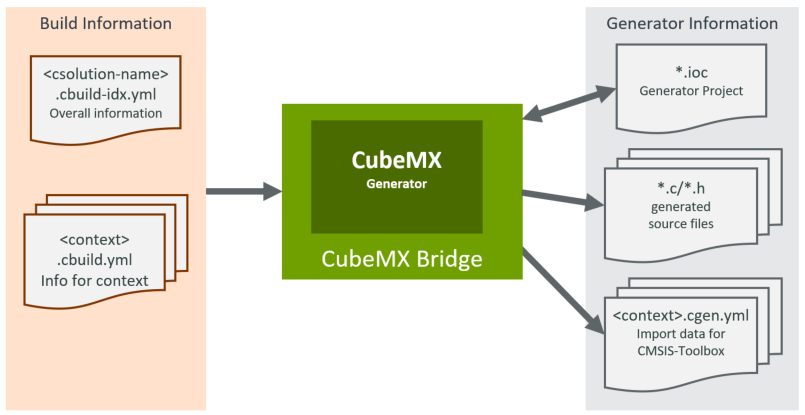
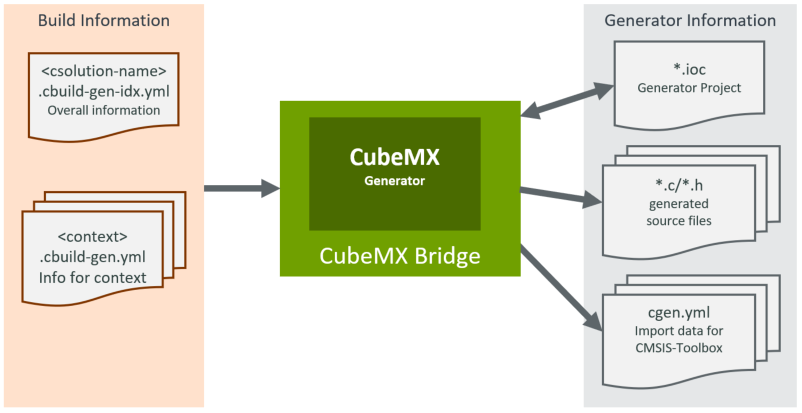
Refinement of Simplified Generator Proposal

diff --git a/tools/projmgr/docs/Manual/Simplified Generator Proposal.md b/tools/projmgr/docs/Manual/Simplified Generator Proposal.md
@@ -1,7 +1,7 @@
-# Generator Workflow (Proposal) - Revised 1. Sept 2023
+# Generator Workflow (Proposal) - Revised 4. Sept 2023
 <!-- markdownlint-disable MD013 -->
 
-- [Generator Workflow (Proposal) - Revised 1. Sept 2023](#generator-workflow-proposal---revised-1-sept-2023)
+- [Generator Workflow (Proposal) - Revised 4. Sept 2023](#generator-workflow-proposal---revised-4-sept-2023)
   - [User Steps](#user-steps)
   - [Generator Interface](#generator-interface)
   - [Project Scenarios](#project-scenarios)
@@ -32,22 +32,22 @@ Typically generators are used to:
 
 ## Generator Interface
 
-The diagram below shows how the Generator is integrated into the CMSIS-Build tools. The data flow is exemplified on STM32CubeMX (or just CubeMX). The information about the project is delivered in `*.cbuild-idx.yml` and `<context>.cbuild.yml` files. Using this information provides CubeMX with the project context, such as selected board or device, and CPU mode such as TrustZone disabled/enabled.
+The diagram below shows how the Generator is integrated into the CMSIS-Build tools. The data flow is exemplified on STM32CubeMX (or just CubeMX). The information about the project is delivered in `*.cbuild-gen-idx.yml` and `<context>.cbuild-gen.yml` files. This information provides CubeMX with the project context, such as selected board or device, and CPU mode such as TrustZone disabled/enabled.
 
 ![Generator Information](./images/Generator-Information.png "Generator Information")
 
-CubeMX generates:
+CubeMX/CubeMXBridge generates:
 
 - `*.ioc` CubeMX project file with current project settings
 - `*.c/.h` source files, i.e. for interfacing with drivers
-- `<context>.cgen.yml` which provides the data for project import into the csolution build process.
+- `cgen.yml` which provides the data for project import into the csolution build process.
 
-> **Note:**  As CubeMX itself does not have the required interfaces to the csolution project format, there is a utility `CubeMX Bridge` that converts the `*.cbuild*.yml` files into command-line options for CubeMX. It also generates the `<context>.cgen.yml` based on the generator information.
+> **Note:**  As CubeMX itself does not have the required interfaces to the csolution project format, there is a utility `CubeMX Bridge` that converts the `*.cbuild-gen*.yml` files into command-line options for CubeMX. It also generates the `cgen.yml` based on the information generated by CubeMX.
 
 ## Project Scenarios
 
 The following in an analysis of the different project scenarios, again exemplified with STM32CubeMX.
-Note that the directory structure can be controlled already using the key [`generators:`](https://github.com/Open-CMSIS-Pack/cmsis-toolbox/blob/main/docs/YML-Input-Format.md#generators). Hence the following is just a proposal for changing default locations.
+Note that the directory structure can be controlled already using the key [`generators:`](https://github.com/Open-CMSIS-Pack/cmsis-toolbox/blob/main/docs/YML-Input-Format.md#generators). Hence the following is just a proposal for default locations.
 
 ### Single-Core
 
@@ -73,12 +73,11 @@ Generator files belong to `csolution.yml` or to a `clayer-idx.yml` file.
 
 > **Notes:**
 >
-> - New Access Sequences are introduced: $GenID$, $LayerDir()$, $LayerIdxDir()$.
-> - For using layers with Multi-Core and TrustZone projects
+> - New Access Sequences are introduced: `$GenID$`, `$LayerDir()$`, `$LayerIdxDir()$`.
 > - When components with **GenID** are intermixed (some in `*.clayer.yml`, some in `*.cproject.yml`) an error is displayed with the request to use explicit [`generators:`](https://github.com/Open-CMSIS-Pack/cmsis-toolbox/blob/main/docs/YML-Input-Format.md#generators) settings.
 
 ```txt
-error: <context> requires explicit generator base directory, use key generator: 
+error: <context> requires explicit generator base directory, use key `generator:`
 ```
 
 ## Global Generator Registry
@@ -95,7 +94,6 @@ generators:
   - generator: CubeMX    # potentially with version added by `@` notation
     download-url: https://www.st.com/en/development-tools/stm32cubemx.html
     exe: ../bin/CubeMX2cgen
-    build-info: abs      # default setting is relative
     args:
       - arg: <access-sequence> 
       - arg: <access-sequence> 
@@ -111,8 +109,6 @@ generators:
      :
   - generator: Renesas...
 ```
-
-With `build-info: abs`, it is required for generate absolute paths for the build invocation files.  In this case `<context>.cbuild-gen.yml` files are written by csolution prior to calling the generator and passed as file reference to generator via `$G` command line argument. This file follows the `cbuild.yml` schema but contains absolute paths.
 
 ## Impact to PDSC files and Packs
 
